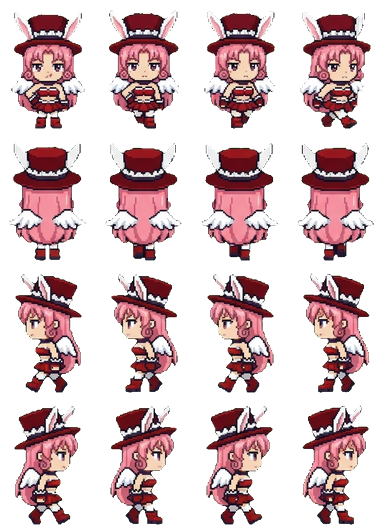
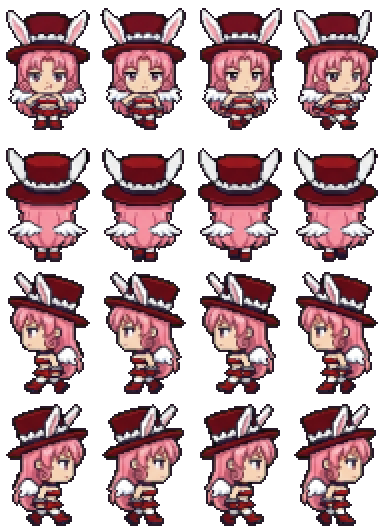
Restyle Meroko to Izumi's proportions and chunky pixel look
Claude-Session: https://claude.ai/code/session_01KaPsBYLrtbRfMYNG2xeBCK

diff --git a/docs/app.js b/docs/app.js
@@ -75,7 +75,7 @@ function spr(cat, k, col, sc) {
   return `<div class="clip" style="width:${it[2] * sc}px;height:${it[3] * sc}px;POS"><img class="px" src="assets/decor/${cat}.png" alt="" style="width:${S.sw * sc}px;height:${S.sh * sc}px;margin-left:${-col * S.cw * sc}px;margin-top:${-i * S.ch * sc}px"></div>`;
 }
 const icon = (k, sz) => `<span class="itm" style="width:${sz}px;height:${sz}px"><img class="px" src="assets/ui/items.png" alt="" style="width:${IT.length * sz}px;height:${sz}px;margin-left:${-ITM[k].i * sz}px"></span>`;
-const face = (id, w) => { const s = w / 96; return `<img class="px" src="assets/ch/${id}.webp?v=23" alt="" style="position:absolute;width:${384 * s}px;height:${528 * s}px;left:${-(96 * s - w) / 2}px;top:0;max-width:none">`; };
+const face = (id, w) => { const s = w / 96; return `<img class="px" src="assets/ch/${id}.webp?v=24" alt="" style="position:absolute;width:${384 * s}px;height:${528 * s}px;left:${-(96 * s - w) / 2}px;top:0;max-width:none">`; };
 
 // ---------- 저장 ----------
 let fb = null, user = null, S = null, saveT = null;
@@ -143,7 +143,7 @@ function sleepHTML(id, r, dy) {
   const pos = r.a && r.a[0] === 'bed' ? 'left:3%;bottom:20%' : r.b && r.b[0] === 'bed' ? 'right:3%;bottom:20%' : 'left:calc(50% - 44px);bottom:6%';
   const s = 36 / 96;
   return `<div style="position:absolute;width:88px;height:56px;${pos};z-index:${dy ? 4 : 5};${dy ? `transform:translate(12px,${dy}px)` : ''}"><div style="position:absolute;inset:0;filter:brightness(.22)">
-    <div style="position:absolute;left:11px;top:1px;width:36px;height:50px;overflow:hidden;transform:rotate(-90deg)"><img class="px" src="assets/ch/${id}.webp?v=23" alt="" style="width:${384 * s}px;height:${528 * s}px;max-width:none;margin-top:${-132 * s}px"></div>
+    <div style="position:absolute;left:11px;top:1px;width:36px;height:50px;overflow:hidden;transform:rotate(-90deg)"><img class="px" src="assets/ch/${id}.webp?v=24" alt="" style="width:${384 * s}px;height:${528 * s}px;max-width:none;margin-top:${-132 * s}px"></div>
     <div style="position:absolute;left:19px;top:19px;width:67px;height:29px;border:2px solid var(--ink);border-radius:8px 6px 4px 4px;background:#8ccff5;background-image:repeating-linear-gradient(90deg,transparent 0 10px,rgba(255,255,255,.5) 10px 13px)"></div></div>
     ${dy ? '' : '<span class="emo" style="left:8px;top:-22px;color:#5b6bd6">Z z z</span>'}</div>`;
 }
@@ -153,8 +153,8 @@ function roomHTML(id, o, scale) {
     <div class="floor" style="background-color:${PAL[r.fc][1]};background-image:${tileUrl('floor', r.fl)}"></div>
     ${slot('deco', r.dc, 'left:6%;top:6%')}${slot('furn', r.a, 'left:3%;bottom:20%')}${slot('furn', r.b, 'right:3%;bottom:20%')}${slot('prop', r.pr, 'left:28%;bottom:4%;z-index:2')}
     ${id && o.sleeping && g ? sleepHTML(g, r, -16) : ''}${id && o.sleeping ? sleepHTML(id, r) : ''}${id && o.job ? `<div style="position:absolute;left:50%;top:38%;transform:translateX(-50%);z-index:5;background:#fff;border:3px solid var(--ink);border-radius:10px;padding:6px 10px;font-size:11px;text-align:center;line-height:1.5"><img src="assets/ui/ic_job.png" alt="" style="width:18px;vertical-align:-4px"> ${WORK[id] ? WORK[id][1] : esc(JOB_NAME[id]) + ' 알바 중'}${g ? `<br><small>${esc(nameOf(g))}도 같이</small>` : ''}<br><b id="jobleft">${timeLeft(o.job.until)}</b></div>` : ''}
-    ${id ? `<div class="shadow" id="shd" ${o.sleeping || o.job ? 'style="display:none"' : ''}></div><div class="man" id="man" ${o.sleeping || o.job ? 'style="display:none"' : ''}><img class="px" src="assets/ch/${id}.webp?v=23" alt="${esc(nameOf(id))}"></div><span class="emo" id="emo" hidden></span><span class="mumble" id="mum" hidden></span>` : ''}
-    ${g ? `<div class="shadow" id="gshd" ${hideG}></div><div class="man" id="gman" ${hideG}><img class="px" src="assets/ch/${g}.webp?v=23" alt="${esc(nameOf(g))}"></div><span class="emo" id="gemo" hidden></span><span class="mumble gmum" id="gmum" hidden></span>` : ''}
+    ${id ? `<div class="shadow" id="shd" ${o.sleeping || o.job ? 'style="display:none"' : ''}></div><div class="man" id="man" ${o.sleeping || o.job ? 'style="display:none"' : ''}><img class="px" src="assets/ch/${id}.webp?v=24" alt="${esc(nameOf(id))}"></div><span class="emo" id="emo" hidden></span><span class="mumble" id="mum" hidden></span>` : ''}
+    ${g ? `<div class="shadow" id="gshd" ${hideG}></div><div class="man" id="gman" ${hideG}><img class="px" src="assets/ch/${g}.webp?v=24" alt="${esc(nameOf(g))}"></div><span class="emo" id="gemo" hidden></span><span class="mumble gmum" id="gmum" hidden></span>` : ''}
     ${o.sleeping ? `<div class="night"></div><div class="sleepleft">쿨쿨 · 일어나기까지 <b id="sleepleft">${timeLeft(wakeAt(o)).replace(' 남음', '')}</b></div>` : ''}
   </div>`;
 }
@@ -167,7 +167,7 @@ function meterHTML(o) {
 const ic = (act, img, label, pressed) => `<button class="ic" data-act="${act}" ${pressed ? 'aria-pressed="true"' : ''}><img src="assets/ui/ic_${img}.png?v=2" alt="">${label}</button>`;
 
 let dropStyle = null; const cheat = {};
-const APP_V = 95, COUPONS = { NINOGUYA: 3000 };
+const APP_V = 96, COUPONS = { NINOGUYA: 3000 };
 // 쿠폰 입력 정리: 한글 자판 상태로 친 글자(ㅜㅑㅜㅐ혀ㅛㅁ)도 영어 자판 글자로 바꾸고, 대소문자·띄어쓰기·마침표는 무시해요
 const KEY = { ㄱ: 'r', ㄲ: 'R', ㄴ: 's', ㄷ: 'e', ㄸ: 'E', ㄹ: 'f', ㅁ: 'a', ㅂ: 'q', ㅃ: 'Q', ㅅ: 't', ㅆ: 'T', ㅇ: 'd', ㅈ: 'w', ㅉ: 'W', ㅊ: 'c', ㅋ: 'z', ㅌ: 'x', ㅍ: 'v', ㅎ: 'g',
   ㅏ: 'k', ㅐ: 'o', ㅑ: 'i', ㅒ: 'O', ㅓ: 'j', ㅔ: 'p', ㅕ: 'u', ㅖ: 'P', ㅗ: 'h', ㅘ: 'hk', ㅙ: 'ho', ㅚ: 'hl', ㅛ: 'y', ㅜ: 'n', ㅝ: 'nj', ㅞ: 'np', ㅟ: 'nl', ㅠ: 'b', ㅡ: 'm', ㅢ: 'ml', ㅣ: 'l',
@@ -407,7 +407,7 @@ function startTrip(k) {
   if (tg) lines[1] = `${nameOf(tg)}: ${withHim(sub(pick(GLX(tg).trip), o, c.n), tg)}`;
   const n = (FR[id] || [4, 4, 4, 4])[3], el = document.createElement('div'); el.className = 'tripview';
   el.innerHTML = `<div class="tsay"> </div><div class="tstage" style="background-image:url(assets/travel/${k}.png?v=2)"><div class="tplace">${esc(c.n)}</div>
-    <div class="twalker"><img class="px" src="assets/ch/${id}.webp?v=23" alt=""></div>${tg ? `<div class="twalker tgirl"><img class="px" src="assets/ch/${tg}.webp?v=23" alt=""></div>` : ''}<span class="emo tjoy">♪</span></div>
+    <div class="twalker"><img class="px" src="assets/ch/${id}.webp?v=24" alt=""></div>${tg ? `<div class="twalker tgirl"><img class="px" src="assets/ch/${tg}.webp?v=24" alt=""></div>` : ''}<span class="emo tjoy">♪</span></div>
     <div class="tbar"><i></i></div><button class="btn white tskip" data-tskip="1">바로 돌아오기</button>`;
   document.body.appendChild(el);
   const gimg = el.querySelector('.tgirl img'), gn = tg ? (FR[tg] || [4, 4, 4, 4])[3] : 1;
@@ -636,7 +636,7 @@ setInterval(() => { if (S && user) { tickTime(); save(); } }, 60000);
     if (nv > APP_V && !location.search.includes('u=' + nv)) { location.replace(location.pathname + '?u=' + nv); return; }
   } catch { }
   app.innerHTML = '<div class="start"><div class="egg"><div class="scr"></div></div><div class="note">불러오는 중....</div></div>';
-  const [c, t, f, it, mu, ct, tv, gl, sts] = await Promise.all(['data/chars.json', 'data/talk.json', 'data/frames.json', 'data/items.json', 'data/mumble.json', 'data/countries.json', 'data/travel.json', 'data/girls.json', 'data/sets.json'].map(u => fetch(u + '?v=95').then(r => r.ok ? r.json() : {})));
+  const [c, t, f, it, mu, ct, tv, gl, sts] = await Promise.all(['data/chars.json', 'data/talk.json', 'data/frames.json', 'data/items.json', 'data/mumble.json', 'data/countries.json', 'data/travel.json', 'data/girls.json', 'data/sets.json'].map(u => fetch(u + '?v=96').then(r => r.ok ? r.json() : {})));
   CH = c; CHM = Object.fromEntries(c.map(x => [x.id, x])); TALK = t; FR = f; IT = it; ITM = Object.fromEntries(it.map(x => [x.k, x])); MUM = mu; CTRY = ct; TRV = tv; GL = Array.isArray(gl) ? gl : []; SETS = Array.isArray(sts) ? sts : []; GLM = Object.fromEntries(GL.map(x => [x.id, x]));
   try { await initFirebase(); } catch (e) { console.warn('Firebase 연결 실패, 기기 저장으로', e); fb = null; }
   if (fb) {

diff --git a/docs/index.html b/docs/index.html
@@ -18,6 +18,6 @@
 <main id="app" aria-live="polite"></main>
 <div id="toast" role="status" hidden></div>
 <script src="firebase-config.js?v=3"></script>
-<script type="module" src="app.js?v=95"></script>
+<script type="module" src="app.js?v=96"></script>
 </body>
 </html>

diff --git a/tk_restyle_meroko.py b/tk_restyle_meroko.py
@@ -1,0 +1,36 @@
+# 메로코를 이즈미 그림체(큰 머리, 짧은 몸, 굵은 픽셀, 두꺼운 외곽선)에 맞춰 다시 만들어요. 사용: python3 tk_restyle_meroko.py 1.18 0.78 2
+import sys; sys.path.insert(0,'/home/user/boifriends')
+import numpy as np, tk_magenta as M, tk_chars as T, tk_whiten as W
+from PIL import Image
+from scipy import ndimage
+# 메로코 원본 칸을 '머리 크게, 몸 짧게' 다시 짜고, 이즈미처럼 굵은 픽셀 + 두꺼운 외곽선으로
+HEAD=float(sys.argv[1]); BODY=float(sys.argv[2]); PIX=int(sys.argv[3])
+def chin(f):
+    # 목(가장 좁은 곳)을 머리/몸 경계로: 위 35~60% 구간에서 너비가 가장 좁은 줄
+    # 피부(얼굴)가 끝나는 줄 = 턱. 머리카락·날개 때문에 너비로는 못 찾아서 피부색으로
+    R,G,B=[f[...,i].astype(int) for i in range(3)]; al=f[...,3]>0; h=al.shape[0]
+    sk=al&(R>215)&(G>175)&(B>145)&(R-B>15)&(R-G<60)
+    rows=np.nonzero(sk[:int(h*.6)].sum(1)>3)[0]
+    return int(rows.max())+2 if len(rows) else int(h*.45)
+def reshape(f):
+    c=chin(f); head=Image.fromarray(f[:c]); body=Image.fromarray(f[c:])
+    hw,hh=head.size; bw,bh=body.size
+    head=head.resize((int(hw*HEAD),int(hh*HEAD)),Image.LANCZOS); body=body.resize((bw,int(bh*BODY)),Image.LANCZOS)
+    W_=max(head.width,body.width); out=Image.new('RGBA',(W_,head.height+body.height-2))
+    out.alpha_composite(body,((W_-body.width)//2,head.height-2)); out.alpha_composite(head,((W_-head.width)//2,0))
+    return np.array(out)
+orig=M.cells
+def cells2(path,cols=5,rows=4):
+    return [[reshape(f) for f in r] for r in orig(path,cols,rows)]
+M.cells=cells2
+R_=[(2,1),(2,2),(2,3),(2,4)]
+M.build('meroko','chars_src/meroko.png',pick={'down':[(0,k) for k in range(4)],'up':[(1,k) for k in range(4)],'left':R_,'right':R_})
+fw,fh=96,132; a=np.array(Image.open('docs/assets/ch/meroko.webp').convert('RGBA'))
+for k in range(4): a[2*fh:3*fh,k*fw:(k+1)*fw]=a[3*fh:4*fh,k*fw:(k+1)*fw][:, ::-1]
+# 굵은 픽셀: 1/PIX로 줄였다가 NEAREST로 키우기 + 두꺼운 외곽선
+im=Image.fromarray(a); sm=im.resize((im.width//PIX,im.height//PIX),Image.BOX); s=np.array(sm)
+al=s[...,3]>110; s[...,3]=np.where(al,255,0)
+edge=ndimage.binary_dilation(al)&~al
+s[edge]=[40,26,40,255]
+big=Image.fromarray(s).resize((im.width,im.height),Image.NEAREST)
+big.save('docs/assets/ch/meroko.webp','WEBP',lossless=True)
